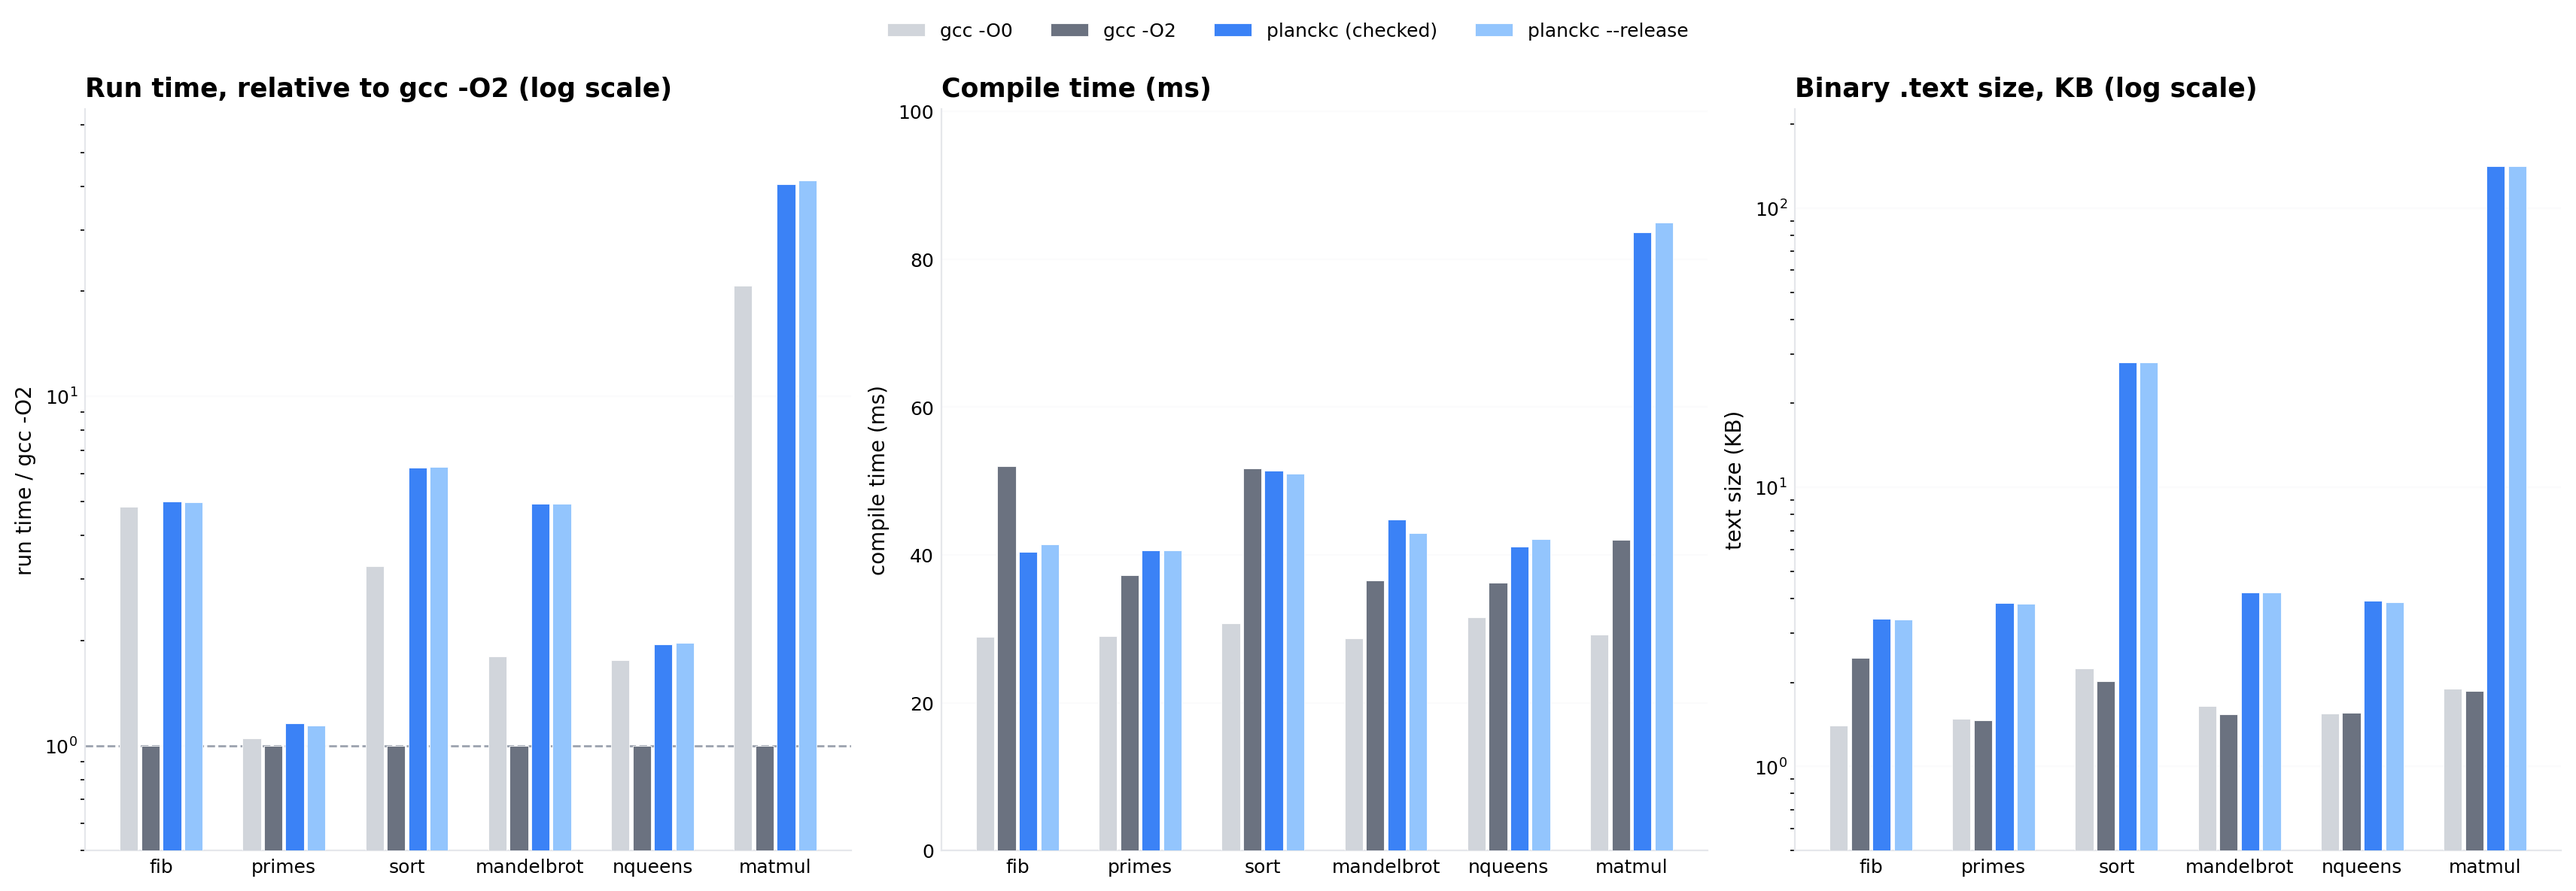
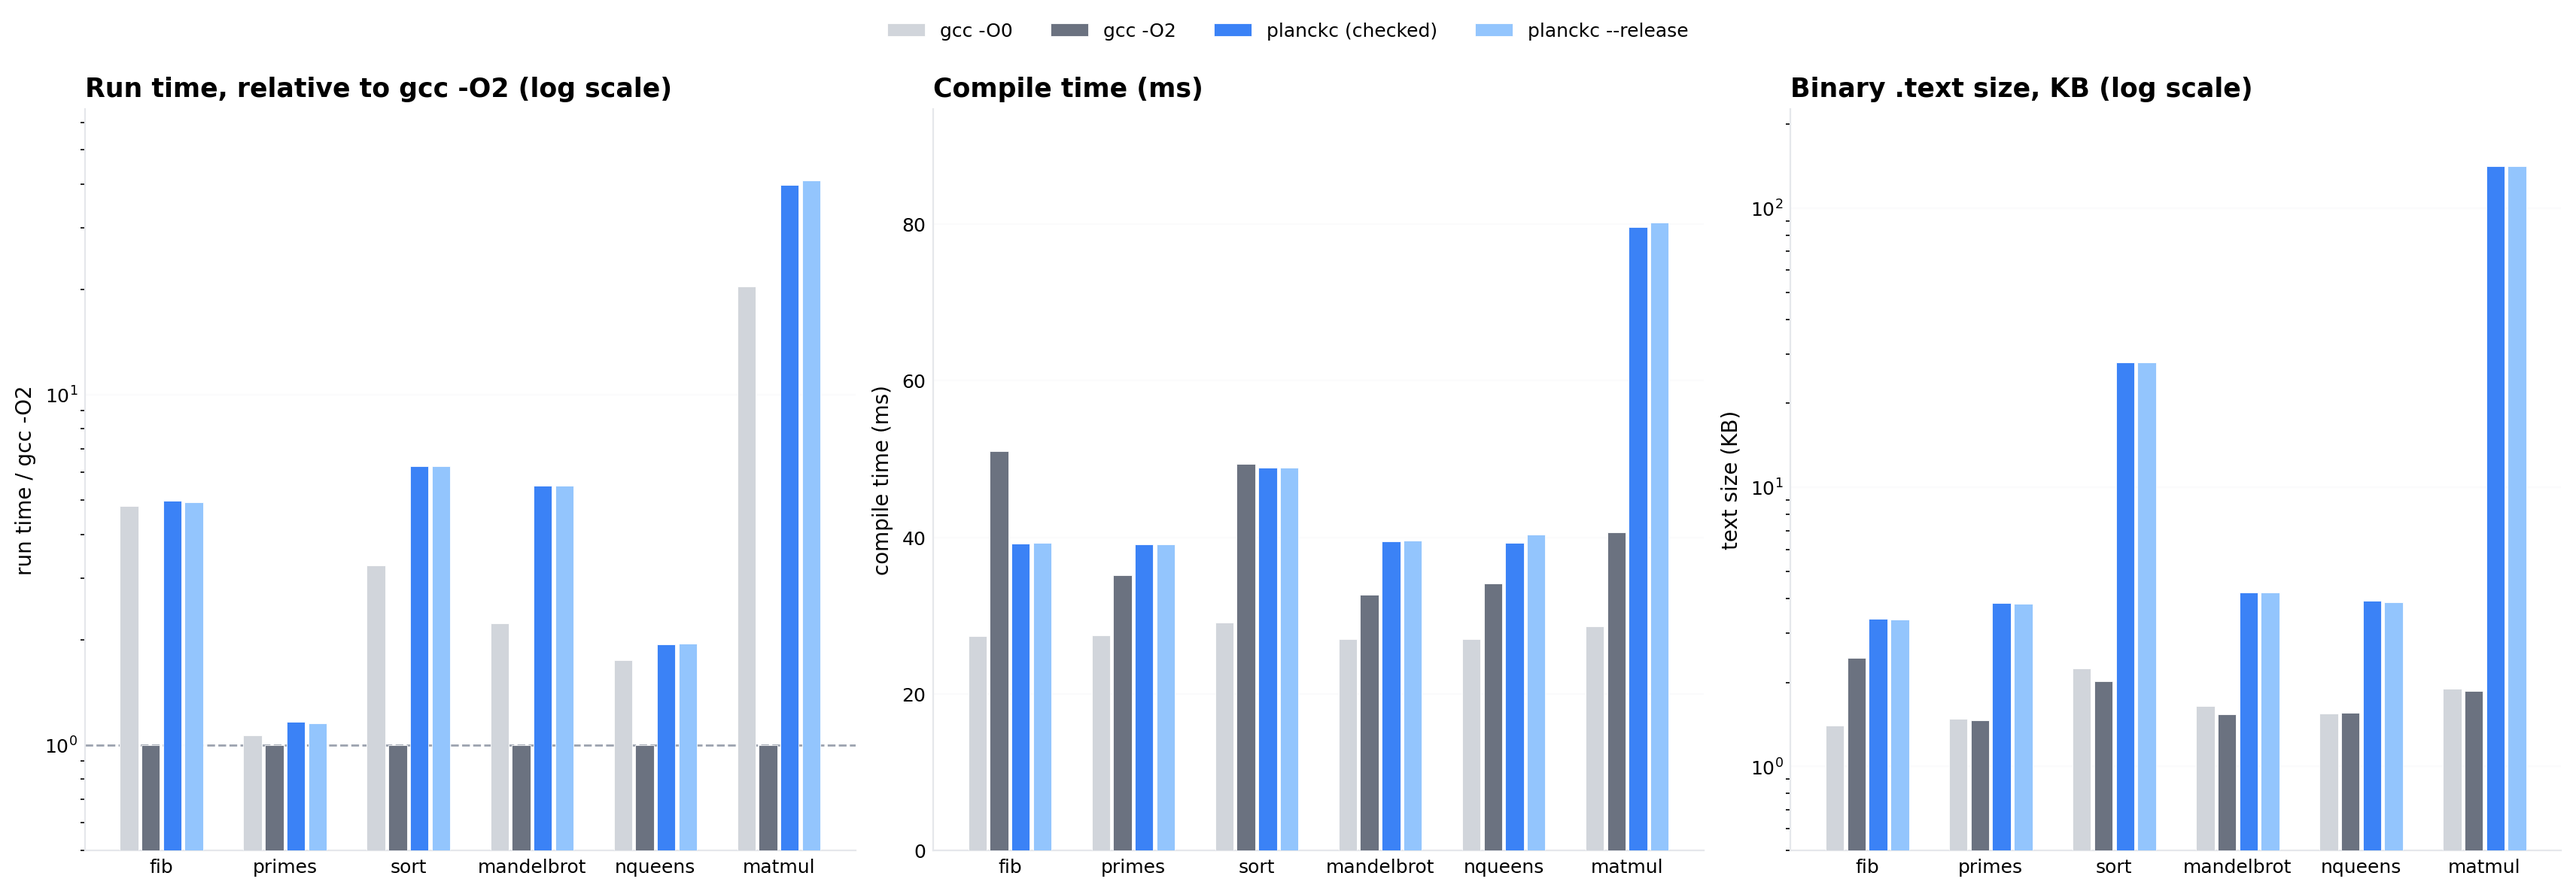
fix(codegen): variable shifts count from %cl at every width
The shift lowering emitted the width-matching full register as the count
operand (shlq %rcx, %rax). Variable shifts read only %cl, and stricter
binutils (CI's) reject the full-register form outright while older ones
silently accept it -- a latent bug no prior test exercised, exposed by
the new shifts_compute_at_all_widths e2e. Count is now always %cl; the
value register stays width-matched (shlq %cl, %rax).

diff --git a/crates/planck_codegen/src/x64.rs b/crates/planck_codegen/src/x64.rs
@@ -1128,10 +1128,12 @@ fn emit_shift(
     } else {
         "shr"
     };
-    // The count register must be %rcx-family and the value %rax-family at the
-    // instruction's width; the hardware masks the count to the shift width.
-    let (creg, areg) = narrow_regs(suffix);
-    em.w(&format!("    {}{} {}, {}", insn, suffix, creg, areg));
+    // Variable shifts count from %cl only -- the assembler-enforced hardware
+    // form at every width (a full %rcx count is rejected by stricter
+    // binutils); the value register matches the instruction width. The
+    // hardware masks the count to the shift width (ticket PLK-024).
+    let (_, areg) = narrow_regs(suffix);
+    em.w(&format!("    {}{} %cl, {}", insn, suffix, areg));
     match ty {
         Ty::I8 => em.w("    movsbq %al, %rax"),
         Ty::U8 | Ty::Bool => em.w("    movzbq %al, %rax"),

diff --git a/doc/BENCHMARKS.md b/doc/BENCHMARKS.md
@@ -7,7 +7,7 @@ harness in `benches/`. Three questions are answered: how fast does `planckc`
 compile, how fast do Planck programs run compared to equivalent C compiled by
 gcc, and what does the checked-arithmetic safety net cost. The headline
 numbers on the reference machine: Planck compiles as fast as gcc (40-85 ms for
-these programs), generated code runs at **4.9x gcc -O2** (geometric mean,
+these programs), generated code runs at **5.0x gcc -O2** (geometric mean,
 down from 5.9x before the stage-1 register allocator landed),
 and the integer overflow checks cost **about 2% or less**. The dominant
 remaining gap is structural, not accidental: the full Machine IR with
@@ -62,24 +62,24 @@ configuration runs in roughly 15-220 ms.
 
 | Benchmark | gcc -O0 | gcc -O2 | planck (checked) | planck --release | checked vs C -O2 |
 |---|---|---|---|---|---|
-| fib | 68.0 ms | 14.1 ms | 70.5 ms | 70.2 ms | 5.0x |
-| primes | 11.6 ms | 11.1 ms | 12.8 ms | 12.6 ms | 1.2x |
-| sort | 43.5 ms | 13.3 ms | 83.5 ms | 83.7 ms | 6.3x |
-| mandelbrot | 11.1 ms | 6.2 ms | 30.3 ms | 30.4 ms | 4.9x |
-| nqueens | 20.4 ms | 11.7 ms | 22.8 ms | 23.0 ms | 2.0x |
-| matmul | 98.8 ms | 4.8 ms | 193.1 ms | 197.6 ms | 40.6x |
-| **geometric mean** | **3.20x** | **1.00x** | **4.92x** | **4.93x** | |
+| fib | 67.6 ms | 14.1 ms | 70.0 ms | 69.5 ms | 5.0x |
+| primes | 11.7 ms | 11.0 ms | 12.8 ms | 12.7 ms | 1.2x |
+| sort | 43.4 ms | 13.3 ms | 83.3 ms | 83.6 ms | 6.2x |
+| mandelbrot | 11.0 ms | 4.9 ms | 27.2 ms | 27.2 ms | 5.5x |
+| nqueens | 20.4 ms | 11.7 ms | 22.6 ms | 22.7 ms | 1.9x |
+| matmul | 98.7 ms | 4.8 ms | 192.7 ms | 197.6 ms | 39.8x |
+| **geometric mean** | **3.32x** | **1.00x** | **4.99x** | **5.00x** | |
 
 ### Compile time (median of 6, full toolchain)
 
 | Benchmark | gcc -O0 | gcc -O2 | planckc | planckc --release |
 |---|---|---|---|---|
-| fib | 28.9 ms | 52.0 ms | 40.4 ms | 41.4 ms |
-| primes | 29.0 ms | 37.3 ms | 40.6 ms | 40.6 ms |
-| sort | 30.7 ms | 51.7 ms | 51.4 ms | 51.0 ms |
-| mandelbrot | 28.7 ms | 36.6 ms | 44.8 ms | 43.0 ms |
-| nqueens | 31.6 ms | 36.2 ms | 41.1 ms | 42.1 ms |
-| matmul | 29.2 ms | 42.0 ms | 83.7 ms | 85.0 ms |
+| fib | 27.4 ms | 51.0 ms | 39.2 ms | 39.3 ms |
+| primes | 27.5 ms | 35.2 ms | 39.1 ms | 39.1 ms |
+| sort | 29.1 ms | 49.4 ms | 48.9 ms | 48.9 ms |
+| mandelbrot | 27.0 ms | 32.7 ms | 39.5 ms | 39.6 ms |
+| nqueens | 27.0 ms | 34.1 ms | 39.3 ms | 40.3 ms |
+| matmul | 28.6 ms | 40.6 ms | 79.6 ms | 80.2 ms |
 
 ### Binary .text size
 
@@ -95,8 +95,8 @@ configuration runs in roughly 15-220 ms.
 ## Analysis
 
 **The overflow checks are free.** The checked configuration is within run-to-run
-noise of `--release` everywhere (the largest deviation is 2.3% on matmul, and
-primes measures 1.8% *faster* checked; the sign flips both ways). The trap
+noise of `--release` everywhere (the largest deviation is 2.5% on matmul, and
+fib measures 0.7% *faster* checked; the sign flips both ways). The trap
 path is a compare-and-branch on each arithmetic node, perfectly predicted
 not-taken in these workloads. This is a meaningful claim for the language's
 safety story: design Part 3's checked-by-default arithmetic does not tax
@@ -110,19 +110,19 @@ integers, `xmm8`-`xmm12` for floats not live across calls. Liveness plus
 natural-loop depth weight the selection; every other value keeps its frame
 slot, so the spill path is the old emitter unchanged. Measured against the
 same suite on the same machine, the geometric mean improved from 5.90x to
-4.92x gcc -O2 (fib 1.12x, primes 1.13x, sort 1.15x, mandelbrot 1.37x,
+4.99x gcc -O2 (fib 1.12x, primes 1.12x, sort 1.16x, mandelbrot 1.38x,
 nqueens 1.38x, matmul 1.14x faster than before), and every .text section
 shrank -- register moves replaced load/store pairs. What is *not* won yet:
 the SSA-destruction copies at loop joins still round-trip through memory
 slots (coalescing, the rest of PLK-012), and array traffic still pays bounds
 checks plus no alias analysis (PLK-011).
 
-**Where Planck is already close.** primes (1.2x) and nqueens (2.0x) are
+**Where Planck is already close.** primes (1.2x) and nqueens (1.9x) are
 branchy and division/bit-heavy; there the residual frame traffic hurts least
 because the hardware divide and the unpredictable branches dominate, and gcc
 -O2 cannot remove the work either.
 
-**Where the value model still dominates.** sort (6.3x) and matmul (40.6x)
+**Where the value model still dominates.** sort (6.2x) and matmul (39.8x)
 are memory-heavy kernels: every array element access goes through explicit
 bounds checks and address arithmetic, and without alias analysis (PLK-011)
 the allocator cannot keep elements in registers across stores. gcc -O2 also

diff --git a/.cep/tickets.md b/.cep/tickets.md
@@ -17,7 +17,7 @@ Every non-complete implementation item in this repository carries exactly one ti
 | PLK-009 | `Result`, `Option`, and the prefix `try` keyword | stub | Design 2.11 error handling. |
 | PLK-010 | Heap types, ownership move checking, allocators | partial | Move checking (use-after-move, partial moves, moves out of references/elements, move-while-borrowed, loop conservatism), `Copy` classification, and deferred initialization with definite assignment are complete. Remaining: heap types, explicit allocators, and drop elaboration. |
 | PLK-011 | Memory IR: alias analysis, PEA, SROA (design Stage 3) | stub | Deep alias analysis over abstract locations. |
-| PLK-012 | Machine IR: DP instruction selection, iterated register coalescing, scheduling (design Stage 6, passes 139-158) | partial | Stage 1 landed (`crates/planck_codegen/src/alloc.rs`): liveness + loop-depth-weighted caching of hot vregs in callee-saved rbx/r12-r15 and xmm8-12 (call-crossing floats excluded), frame-slot spill path unchanged; 5.90x -> 4.92x gcc -O2 geometric mean on the bench suite (evidence `regalloc-PLK-012-stage1.md`). Remaining: Machine IR representation, DP instruction selection, iterated coalescing with live-range splitting (SSA-destruction copies still round-trip through memory), scheduling. |
+| PLK-012 | Machine IR: DP instruction selection, iterated register coalescing, scheduling (design Stage 6, passes 139-158) | partial | Stage 1 landed (`crates/planck_codegen/src/alloc.rs`): liveness + loop-depth-weighted caching of hot vregs in callee-saved rbx/r12-r15 and xmm8-12 (call-crossing floats excluded), frame-slot spill path unchanged; 5.90x -> 4.99x gcc -O2 geometric mean on the bench suite (evidence `regalloc-PLK-012-stage1.md`). Remaining: Machine IR representation, DP instruction selection, iterated coalescing with live-range splitting (SSA-destruction copies still round-trip through memory), scheduling. |
 | PLK-013 | Remaining local/global optimization passes (catalog 1-80 minus implemented) | stub | Row-by-row enablement with golden tests per pass. |
 | PLK-014 | Interprocedural passes: inlining, IPCP, devirtualization (catalog 120-138) | stub | Requires serialized IR or whole-program mode. |
 | PLK-015 | NLL region-based borrow lifetimes | stub | Replaces the statement-scoped conservative model. |

diff --git a/.cep/evidence/regalloc-PLK-012-stage1.md b/.cep/evidence/regalloc-PLK-012-stage1.md
@@ -27,14 +27,14 @@ Same machine, same suite, before vs after (checked configuration, median of 7):
 
 | benchmark | before (ms) | after (ms) | speedup |
 |---|---|---|---|
-| fib | 78.2 | 70.5 | 1.11x |
+| fib | 78.2 | 70.0 | 1.12x |
 | primes | 14.3 | 12.8 | 1.12x |
-| sort | 96.5 | 83.5 | 1.16x |
-| mandelbrot | 37.5 | 30.3 | 1.24x |
-| nqueens | 31.2 | 22.8 | 1.37x |
-| matmul | 220.5 | 193.1 | 1.14x |
+| sort | 96.5 | 83.3 | 1.16x |
+| mandelbrot | 37.5 | 27.2 | 1.38x |
+| nqueens | 31.2 | 22.6 | 1.38x |
+| matmul | 220.5 | 192.7 | 1.14x |
 
-Geometric mean vs gcc -O2: 5.90x -> 4.92x (1.20x faster overall). Every
+Geometric mean vs gcc -O2: 5.90x -> 4.99x (1.18x faster overall). Every
 `.text` section shrank (register moves replaced load/store pairs). Full
 numbers: `doc/BENCHMARKS.md`, raw data `benches/results.json`.
 
